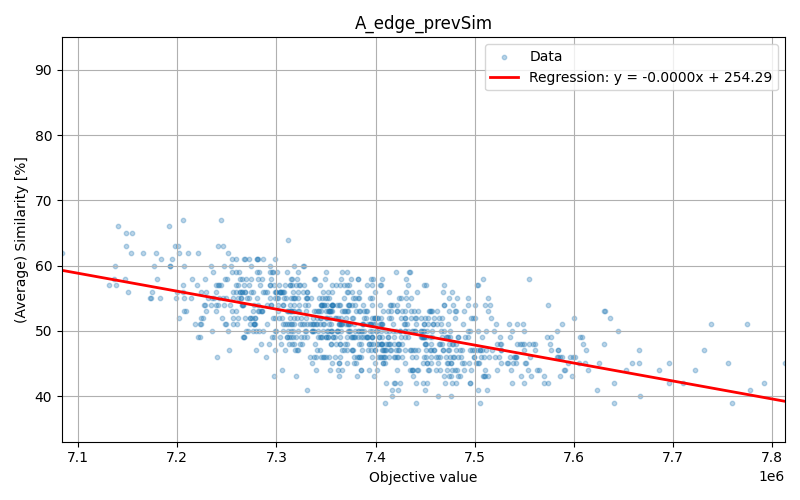
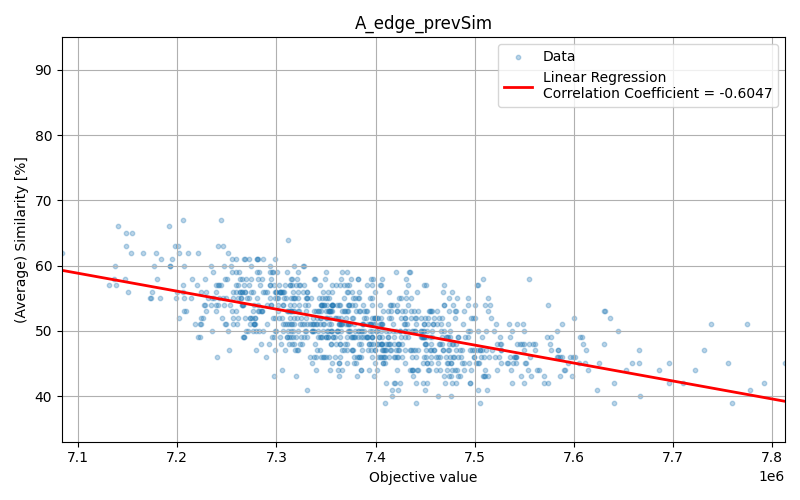
Fix plots

Changed region(s): [[0.5938, 0.09, 0.9688, 0.21]]

diff --git a/assignment_8/src/make_plots.py b/assignment_8/src/make_plots.py
@@ -55,7 +55,16 @@ for dataset in ['A', 'B']:
         line_x = np.array([xmin, xmax])
         line_y = m * line_x + b
 
-        plt.plot(line_x, line_y, color="red", linewidth=2, label=f"Regression: y = {m:.4f}x + {b:.2f}")
+        # ----- Correlation coefficient -----
+        r = np.corrcoef(x, y)[0, 1]   # Pearson's r
+
+        # Plot regression line
+        plt.plot(
+            line_x, line_y,
+            color="red",
+            linewidth=2,
+            label=f"Linear Regression\nCorrelation Coefficient = {r:.4f}"
+        )
 
         # ----- Titles and labels -----
         plt.title(name)
